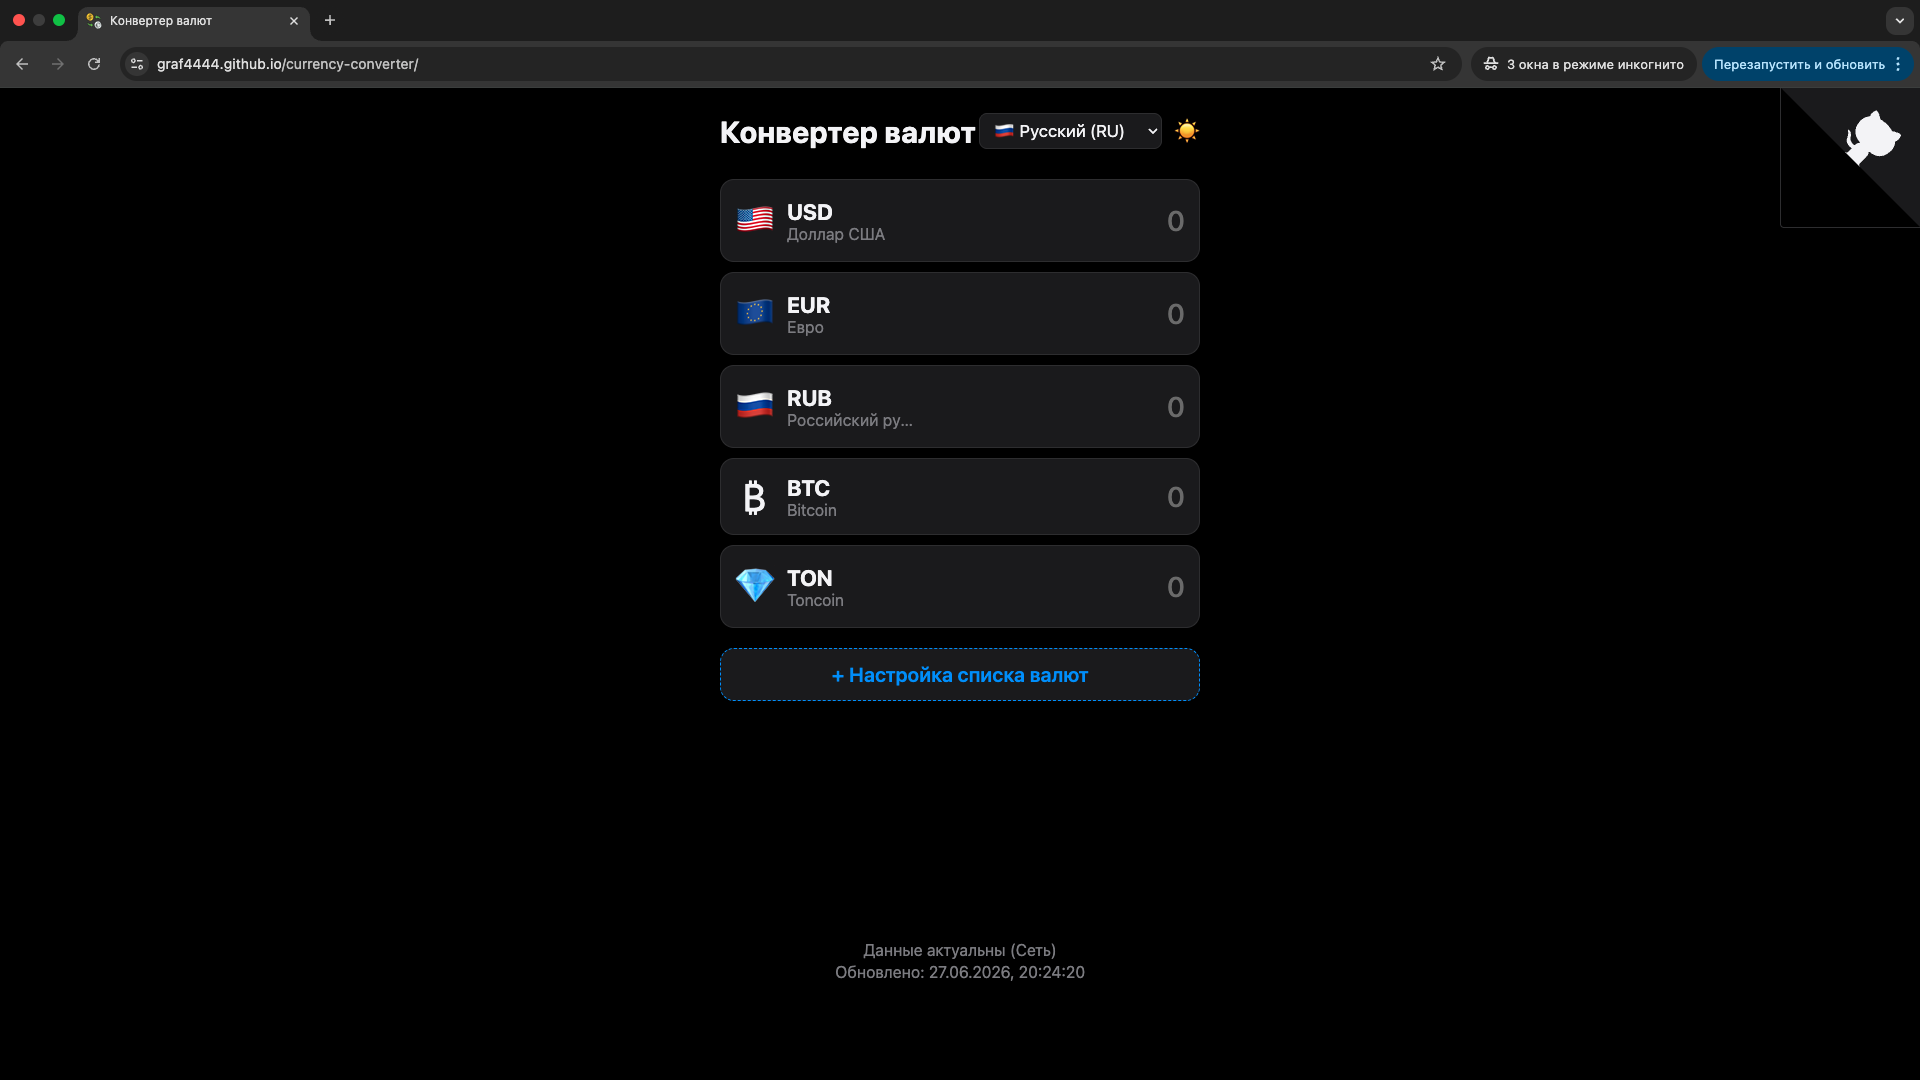
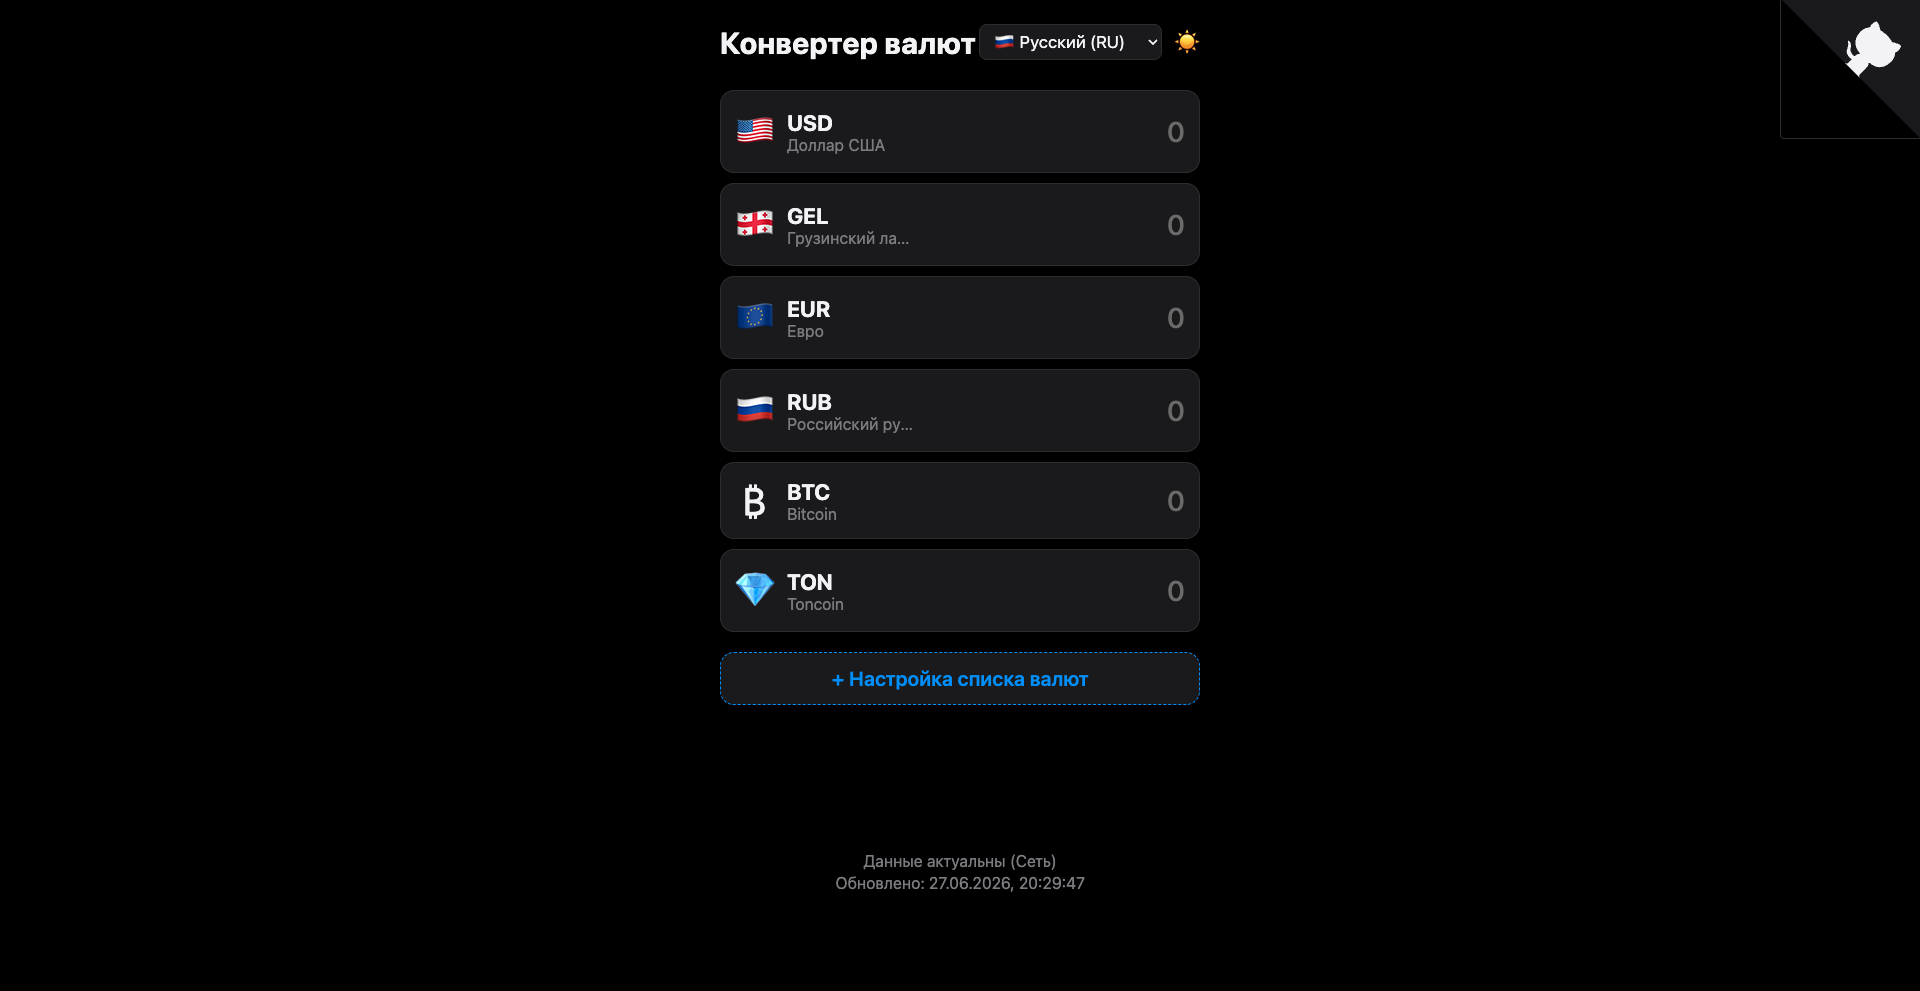
update readme

Changed region(s): [[0.0, 0.0, 1.0, 0.7265], [0.4375, 0.8476, 0.5625, 0.9082]]

diff --git a/README.md b/README.md
@@ -17,8 +17,10 @@ The application is deployed and ready to use:
 👉 **[Open Currency Converter](https://graf4444.github.io/currency-converter/)**
 
 <p align="center">
-  <img src="assets/desktop-screenshot.png" alt="Desktop Version" width="55%" style="vertical-align: middle; margin-right: 10px;">
-  <img src="assets/mobile-screenshot.png" alt="Mobile Version" width="28%" style="vertical-align: middle;">
+  <b>💻 Desktop Version</b><br>
+  <img src="assets/desktop-screenshot.png" alt="Desktop Version" width="80%"><br><br>
+  <b>📱 Mobile Version</b><br>
+  <img src="assets/mobile-screenshot.png" alt="Mobile Version" width="35%">
 </p>
 
 ---
@@ -76,8 +78,10 @@ If you find a bug, have an idea, or want to add a feature:
 👉 **[Открыть Конвертер Валют](https://graf4444.github.io/currency-converter/)**
 
 <p align="center">
-  <img src="assets/desktop-screenshot.png" alt="Версия для ПК" width="55%" style="vertical-align: middle; margin-right: 10px;">
-  <img src="assets/mobile-screenshot.png" alt="Мобильная версия" width="28%" style="vertical-align: middle;">
+  <b>💻 Версия для ПК</b><br>
+  <img src="assets/desktop-screenshot.png" alt="Версия для ПК" width="80%"><br><br>
+  <b>📱 Мобильная версия</b><br>
+  <img src="assets/mobile-screenshot.png" alt="Мобильная версия" width="35%">
 </p>
 
 ---
@@ -113,7 +117,7 @@ If you find a bug, have an idea, or want to add a feature:
 ---
 
 ### 📢 Поделиться проектом
-[![Telegram](https://img.shields.io/badge/Telegram-26A5E4?style=for-the-badge&logo=telegram&logoColor=white)](https://t.me/share/url?url=https://github.com/graf4444/currency-converter&text=Крутой%20конвертер%20валют%20без%20рекламы%20и%20регистрации!)
+[![Telegram](https://img.shields.io/badge/Telegram-26A5E4?style=for-the-badge&logo=telegram&weight=bold)](https://t.me/share/url?url=https://github.com/graf4444/currency-converter&text=Крутой%20конвертер%20валют%20без%20рекламы%20и%20регистрации!)
 [![VK](https://img.shields.io/badge/ВКонтакте-4C75A3?style=for-the-badge&logo=vk&logoColor=white)](https://vk.com/share.php?url=https://github.com/graf4444/currency-converter)
 [![LinkedIn](https://img.shields.io/badge/LinkedIn-0A66C2?style=for-the-badge&logo=linkedin&logoColor=white)](https://www.linkedin.com/sharing/share-offsite/?url=https://github.com/graf4444/currency-converter)
 [![Reddit](https://img.shields.io/badge/Reddit-FF4500?style=for-the-badge&logo=reddit&logoColor=white)](https://www.reddit.com/submit?url=https://github.com/graf4444/currency-converter&title=Отличный%20Конвертер%20Валют%20и%20Криптовалют)